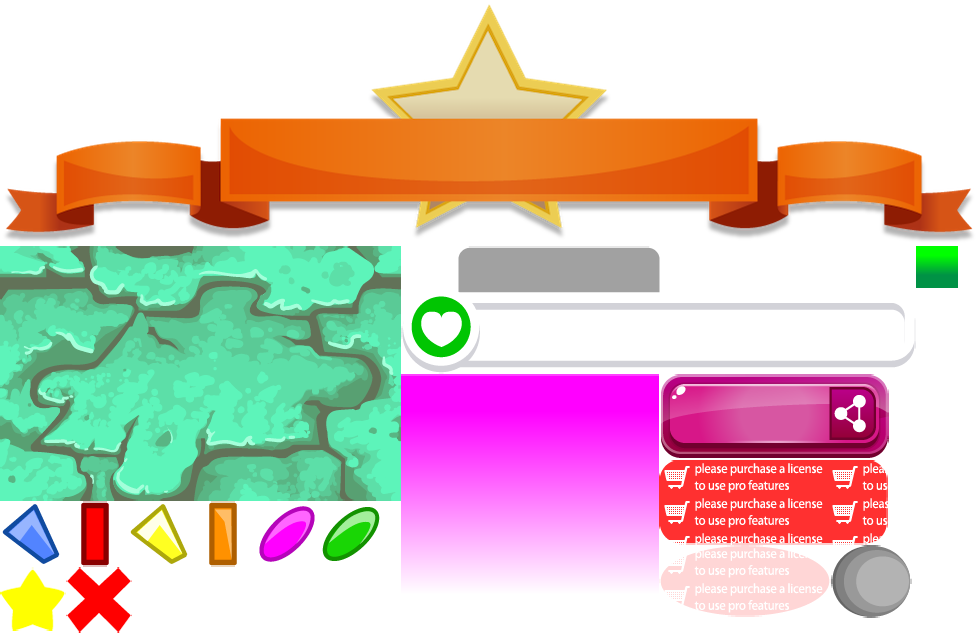
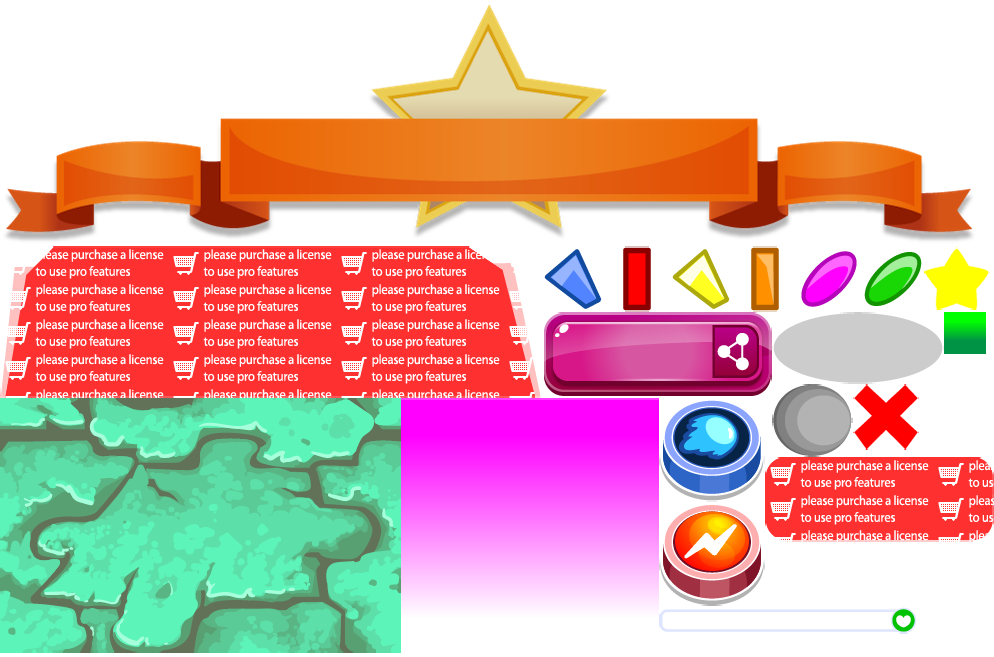
batlle UI added

diff --git a/nonrefactored/epicBattle/battleV/js/scenes/battle.js b/nonrefactored/epicBattle/battleV/js/scenes/battle.js
@@ -3,7 +3,7 @@ var soundsPath = "../../shared/minigames/sounds/"
 var battle = function(){
 	var server = parent.server || null
 	var serverData = server ? server.currentData : {
-		p1:{nickname:"Player1", avatar:"tomiko"},
+		p1:{nickname:"Player1aa", avatar:"tomiko"},
 		p2:{nickname:"Player2", avatar:"razzle"}
 	}
 
@@ -86,7 +86,7 @@ var battle = function(){
     var NUM_OPTIONS = 3
     var MAX_HP = 100
 	var WIDTH_DISTANCE = 110
-	var HP_BAR_WIDTH = 350
+	var HP_BAR_WIDTH = 200
 
     var MONSTERS = [
         {skin:"monster1", spineIndex:0, colorProyectile:"0xFFFE00", name:"Breeze"},
@@ -124,7 +124,7 @@ var battle = function(){
 	var ready, go
 	var hudGroup
 	var frontGroup
-	var answersGroup
+	var controlGroup
 
     function loadSounds(){
         sound.decode(assets.sounds)
@@ -183,7 +183,6 @@ var battle = function(){
     }
     
     function winPlayer(player) {
-		hudGroup.winGroup.playerName.text = player.name
     	game.add.tween(hudGroup.uiGroup).to({alpha:0}, 800, Phaser.Easing.Cubic.Out, true)
     	game.add.tween(hudGroup.winGroup).to({alpha:1}, 800, Phaser.Easing.Cubic.Out, true)
     	game.add.tween(alphaMask).to({alpha:0.7}, 800, Phaser.Easing.Cubic.Out, true)
@@ -389,64 +388,76 @@ var battle = function(){
 
 	function createHpbar(scale){
 		scale = scale || 1
-		var anchorX = scale < 1 ? 0 : 1
+		var anchorX = scale < 0 ? 1 : 0
 
     	var hpGroup = game.add.group()
-		hpGroup.scale.setTo(0.8 * scale, 0.8)
+		hpGroup.scale.setTo(1 * scale, 1)
 		hpGroup.health = MAX_HP
+
+		var groupBg = game.add.graphics()
+		groupBg.beginFill(0x000000)
+		groupBg.drawRoundedRect(0, 0, HP_BAR_WIDTH + 20, 72, 15)
+		groupBg.x = -groupBg.width * 0.5
+		groupBg.y = -groupBg.height + 3
+		groupBg.alpha = 0.5
+		groupBg.endFill()
+		hpGroup.add(groupBg)
 
 		var rectBg = game.add.graphics()
 		rectBg.beginFill(0x000000)
 		rectBg.alpha = 0.4
-		rectBg.drawRect(0,0, 390, 50)
+		rectBg.drawRect(0,0, HP_BAR_WIDTH, 17)
 		rectBg.endFill()
-		rectBg.x = -195
-		rectBg.y = -25 - 5
+		rectBg.x = -100 //+ HP_BAR_WIDTH
+		rectBg.y = -22 - 7
 		hpGroup.add(rectBg)
 
-		var hpBg = sceneGroup.create(-150, -6, 'atlas.battle', 'energy')
+		var hpBg = sceneGroup.create(-100, -22, 'atlas.battle', 'energy')
 		hpBg.anchor.setTo(0, 0.5)
-		hpBg.scale.setTo(0.9, 0.9)
+		hpBg.scale.setTo(0.5, 0.5)
 		hpBg.width = HP_BAR_WIDTH
+		hpBg.height = 17
 
 		hpGroup.add(hpBg)
 
 		var container = hpGroup.create(0, -22, 'atlas.battle', 'lifebar')
 		container.anchor.setTo(0.5, 0.5)
-		container.scale.setTo(0.8, 0.8)
+		container.scale.setTo(0.8 * -1, 0.8)
 
-		var fontStyle = {font: "30px VAGRounded", fontWeight: "bold", fill: "#ffffff", align: "center"}
-		var healthText = new Phaser.Text(game, 0, 5, "100/100", fontStyle)
-		healthText.x = -80
-		healthText.y = -50
-		healthText.anchor.setTo(0.5,0.5)
-		healthText.scale.x = scale
-		hpGroup.add(healthText)
-		hpGroup.healthText = healthText
+		// var fontStyle = {font: "30px VAGRounded", fontWeight: "bold", fill: "#ffffff", align: "center"}
+		// var healthText = new Phaser.Text(game, 0, 5, "100/100", fontStyle)
+		// healthText.x = -80
+		// healthText.y = -50
+		// healthText.anchor.setTo(0.5,0.5)
+		// healthText.scale.x = scale
+		// hpGroup.add(healthText)
+		// hpGroup.healthText = healthText
 
 		hpGroup.removeHealth = function (number) {
 			this.health -= number
 			var newWidth = this.health * HP_BAR_WIDTH * 0.01
 			game.add.tween(hpBg).to({width:newWidth}, 1000, Phaser.Easing.Cubic.Out, true)
 
-			this.healthText.text = this.health + "/100"
-			game.add.tween(this.healthText.scale).to({x:1.2 * scale, y:1.2}, 200, Phaser.Easing.Cubic.Out, true).yoyo(true)
+			// this.healthText.text = this.health + "/100"
+			// game.add.tween(this.healthText.scale).to({x:1.2 * scale, y:1.2}, 200, Phaser.Easing.Cubic.Out, true).yoyo(true)
 		}
 
 		hpGroup.resetHealth = function () {
 			this.health = MAX_HP
 		}
 
-		var fontStyle2 = {font: "32px VAGRounded", fontWeight: "bold", fill: "#ffffff", align: "center"}
+		var tAlign = scale < 0 ? "right" : "left"
+		var fontStyle2 = {font: "28px VAGRounded", fontWeight: "bold", fill: "#ffffff", boundsAlignH: "left"}
 		var name = new Phaser.Text(game, 0, 5, "", fontStyle2)
 		name.stroke = '#2a2a2a';
 		name.strokeThickness = 6;
-		name.x = 0
-		name.y = -3
+		name.x = -HP_BAR_WIDTH * 0.5
+		name.y = -45
 		name.anchor.setTo(anchorX,0.5)
 		name.scale.x = scale
 		hpGroup.add(name)
         hpGroup.name = name
+		name.setTextBounds(0, 0, 150, 0);
 
 		return hpGroup
 	}
@@ -495,8 +506,8 @@ var battle = function(){
 		player.hit = hitParticle
 
 		var hpBar = createHpbar(scale)
-		hpBar.x = player.x + 10 * scale
-		hpBar.y = 120
+		hpBar.x = player.x + 200 * scale
+		hpBar.y = scale < 0 ? player.y - 110 : player.y
 		hudGroup.uiGroup.add(hpBar)
 		hpBar.name.text = data.nickname
 		player.hpBar = hpBar
@@ -558,9 +569,9 @@ var battle = function(){
         sceneGroup.add(pullGroup)
         pullGroup.alpha = 0
 
-		player1 = createPlayer(serverData.p1, {x:WIDTH_DISTANCE, y: game.world.height - 170}, 1)
+		player1 = createPlayer(serverData.p1, {x:WIDTH_DISTANCE, y: game.world.height - 150}, 1)
 		player1.numPlayer = 1
-		//TODO: quitar placeholder
+		//TODO: hacer dinamico el playerScale
 		// var playerScale =
 		player2 = createPlayer(serverData.p2, {x:game.world.width - WIDTH_DISTANCE * 0.6, y: game.world.height -400}, -1, 0.6)
 		player2.numPlayer = 2
@@ -574,8 +585,8 @@ var battle = function(){
 		player1.add(input1)
 		input1.inputEnabled = true
 		input1.events.onInputDown.add(function () {
-			winPlayer(player1)
-			// playerAttack(player1, player2, createProyectile, "proyectile")
+			// winPlayer(player1)
+			playerAttack(player1, player2, createProyectile, "proyectile")
 		})
 
 		var input2 = game.add.graphics()
@@ -745,15 +756,8 @@ var battle = function(){
 
     function startRound() {
 
-		if(server){
-			server.generateQuestion()
-		}else{
-			// enterGame()
-		}
-		// if(server)
-		// 	server.generateQuestion()
-
-		// game.time.events.add(1000, generateQuestion)
+		inputsEnabled = true
+		controlGroup.show.start()
     }
 
     function numbersEffect() {
@@ -798,48 +802,81 @@ var battle = function(){
 		winText.x = game.world.centerX
 		winText.y = 135
 
-		var playerName = game.add.text(0, -5, "Player1", fontStyle)
-		playerName.anchor.setTo(0.5, 0.5)
-		hudGroup.winGroup.add(playerName)
-		playerName.x = game.world.centerX
-		playerName.y = game.world.centerY - 50
-		hudGroup.winGroup.playerName = playerName
+		// var playerName = game.add.text(0, -5, "Player1", fontStyle)
+		// playerName.anchor.setTo(0.5, 0.5)
+		// hudGroup.winGroup.add(playerName)
+		// playerName.x = game.world.centerX
+		// playerName.y = game.world.centerY - 50
+		// hudGroup.winGroup.playerName = playerName
 
-		var buttonGroup = game.add.group()
-		buttonGroup.x = game.world.centerX
-		buttonGroup.y = game.world.centerY + 140
-		hudGroup.winGroup.add(buttonGroup)
+		// var buttonGroup = game.add.group()
+		// buttonGroup.x = game.world.centerX
+		// buttonGroup.y = game.world.centerY + 140
+		// hudGroup.winGroup.add(buttonGroup)
+		//
+		// var shareGroup = game.add.group()
+		// shareGroup.x = 0; shareGroup.y = -70
+		// buttonGroup.add(shareGroup)
+		// shareGroup.tag = "share"
+		//
+		// var shareBtn = shareGroup.create(0, 0, "atlas.battle", "share")
+		// shareBtn.anchor.setTo(0.5, 0.5)
+		//
+		// var shareImg = shareGroup.create(-20, 0, "share")
+		// shareImg.anchor.setTo(0.5, 0.5)
+		//
+		// var retryGroup = game.add.group()
+		// retryGroup.x = 0; retryGroup.y = 70
+		// buttonGroup.add(retryGroup)
+		// retryGroup.tag = "retry"
+		//
+		// var retryBtn = retryGroup.create(0, 0, "atlas.battle", "retry")
+		// retryBtn.anchor.setTo(0.5, 0.5)
+		//
+		// var retryImg = retryGroup.create(-20, 0, "retry")
+		// retryImg.anchor.setTo(0.5, 0.5)
+		//
+		// retryBtn.inputEnabled = true
+		// retryBtn.events.onInputDown.add(onClickBtn)
+	}
 
-		var shareGroup = game.add.group()
-		shareGroup.x = 0; shareGroup.y = -70
-		buttonGroup.add(shareGroup)
-		shareGroup.tag = "share"
+	function onClickAttack(btn) {
+		if(inputsEnabled){
+			inputsEnabled = false
+			game.add.tween(btn.scale).to({x:1.1, y:0.9}, 200, Phaser.Easing.Sinusoidal.InOut, true).yoyo(true)
 
-		var shareBtn = shareGroup.create(0, 0, "atlas.battle", "share")
-		shareBtn.anchor.setTo(0.5, 0.5)
-
-		var shareImg = shareGroup.create(-20, 0, "share")
-		shareImg.anchor.setTo(0.5, 0.5)
-
-		var retryGroup = game.add.group()
-		retryGroup.x = 0; retryGroup.y = 70
-		buttonGroup.add(retryGroup)
-		retryGroup.tag = "retry"
-
-		var retryBtn = retryGroup.create(0, 0, "atlas.battle", "retry")
-		retryBtn.anchor.setTo(0.5, 0.5)
-
-		var retryImg = retryGroup.create(-20, 0, "retry")
-		retryImg.anchor.setTo(0.5, 0.5)
-
-		retryBtn.inputEnabled = true
-		retryBtn.events.onInputDown.add(onClickBtn)
+			if(btn.tag === "attack"){
+				playerAttack(player1, player2, createProyectile)
+				controlGroup.hide.start()
+			}
+		}
 	}
 	
     function createbattleUI() {
 
-		// var bar = answersGroup.create(0,0, "atlas.battle", "bar")
-		// bar.anchor.setTo(0.5, 1)
+		controlGroup = game.add.group()
+		controlGroup.x = game.world.centerX
+		controlGroup.y = game.world.height + 150
+		controlGroup.scale.setTo(0.8, 0.8)
+		hudGroup.add(controlGroup)
+
+		var bar = controlGroup.create(0,0, "atlas.battle", "bottom_bar")
+		bar.anchor.setTo(0.5, 1)
+
+		var attackBtn = controlGroup.create(-130, -20, "atlas.battle", "attack")
+		attackBtn.anchor.setTo(0.5, 1)
+		attackBtn.tag = "attack"
+		attackBtn.inputEnabled = true
+		attackBtn.events.onInputDown.add(onClickAttack)
+
+		var specialBtn = controlGroup.create(115, -20, "atlas.battle", "special")
+		specialBtn.anchor.setTo(0.5, 1)
+		specialBtn.tag = "special"
+		specialBtn.inputEnabled = true
+		specialBtn.events.onInputDown.add(onClickAttack)
+		
+		controlGroup.hide = game.add.tween(controlGroup).to({y:game.world.height + 150}, 1000, Phaser.Easing.Cubic.Out, false, 500)
+		controlGroup.show = game.add.tween(controlGroup).to({y:game.world.height}, 1000, Phaser.Easing.Cubic.Out)
 
 		var correctParticle = createPart("star")
         sceneGroup.add(correctParticle)
@@ -1081,7 +1118,7 @@ var battle = function(){
             // createTutorial()
 
 			sceneGroup.bringToTop(hudGroup)
-            buttons.getButton(battleSong,hudGroup)
+            buttons.getButton(battleSong,hudGroup, game.width - 50)
 
 			frontGroup = game.add.group()
 			sceneGroup.add(frontGroup)
